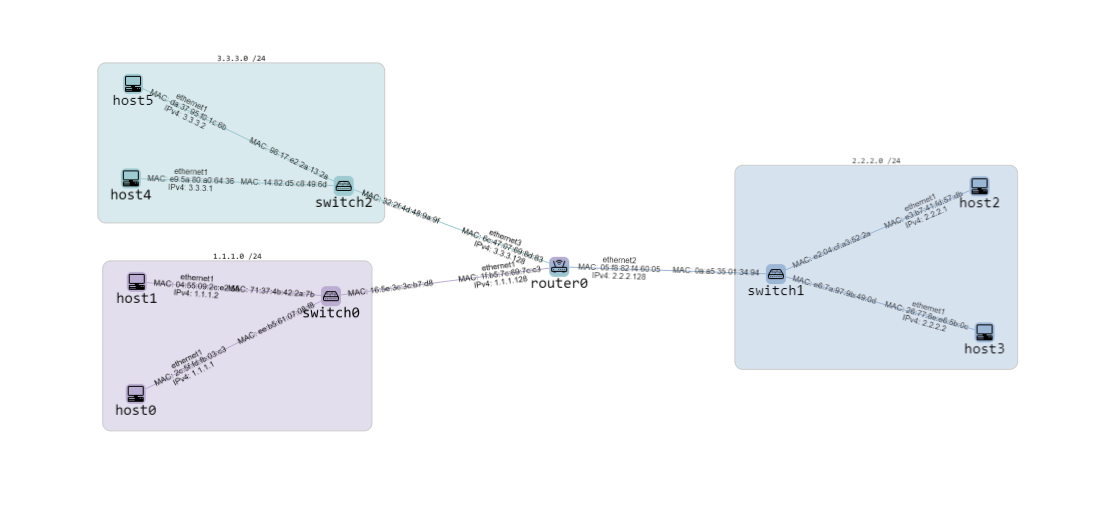
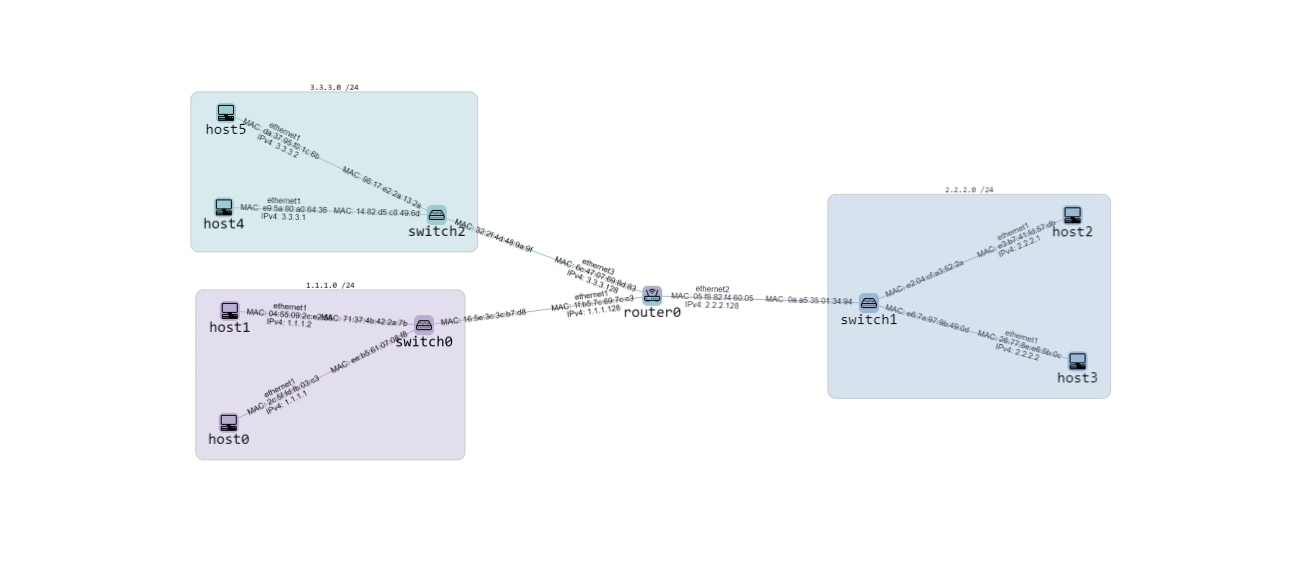
fixed preview images size

Changed region(s): [[0.0929, 0.303, 0.929, 0.8182], [0.0619, 0.0909, 0.4026, 0.4545]]

diff --git a/src/exporting/importExportController.ts b/src/exporting/importExportController.ts
@@ -425,11 +425,11 @@ export class ImportExportController {
         ["Example 2", new ExampleDescription(2, "resources/preview-examples/hub-simulation.png", "resources/examples/hub-simulation.json", "Ethernet with a hub and 3 hosts.")],
         ["Example 3", new ExampleDescription(3, "resources/preview-examples/bridge-simulation.png", "resources/examples/bridge-simulation.json", "Ethernet with a bridge and 2 hosts.")],
         ["Example 4", new ExampleDescription(4, "resources/preview-examples/switch-simulation.png", "resources/examples/switch-simulation.json", "Ethernet with a switch and 3 hosts.")],
-        ["Example 5", new ExampleDescription(5, "resources/preview-examples/accesspoint-simulation.png", "resources/examples/accesspoint-simulation.json", "Wireless network with an access point and 3 hosts.")],
+        ["Example 5", new ExampleDescription(5, "resources/preview-examples/accesspoint-simulation.png", "resources/examples/accesspoint-simulation.json", "Wifi network with 1 access point, 3 hosts.")],
         ["Example 6", new ExampleDescription(6, "resources/preview-examples/gateway-2ethernet.png", "resources/examples/gateway-2ethernet.json", "2 Ethernets with a gateway.")],
         ["Example 7", new ExampleDescription(7, "resources/preview-examples/gateway-2net-wireless-ethernet.png", "resources/examples/gateway-2net-wireless-ethernet.json", "An ethernet, a wireless network and a gateway.")],
         ["Example 8", new ExampleDescription(8, "resources/preview-examples/gateway-3ethernet.png", "resources/examples/gateway-3ethernet.json", "3 Ethernets and a gateway.")],
-        ["Example 9", new ExampleDescription(9, "resources/preview-examples/3gateways - next gateway routes.png", "resources/examples/3gateways - next gateway routes.json", "3 Ethernet, each with a corresponding gateway.")],
+        ["Example 9", new ExampleDescription(9, "resources/preview-examples/3gateways - next gateway routes.png", "resources/examples/3gateways - next gateway routes.json", "3 Ethernets, each with a corresponding gateway.")],
         ["Example 10", new ExampleDescription(10, "resources/preview-examples/4 routers-2 nets.png", "resources/examples/4 routers-2 nets.json", "2 Ethernets and 4 routers.")]
     ]); //id, example-info
 

diff --git a/index.html b/index.html
@@ -17,13 +17,13 @@
 
 <body>
   <computer-network screen="medium"></computer-network>
-  <form autocomplete="off"
+  <!--<form autocomplete="off"
     style="position: fixed; bottom: 0; right: 0; padding: 10px; background: rgba(255, 255, 255, 0.75)">
     <input checked type="checkbox"
       onchange="document.querySelector('computer-network').toggleAttribute('editable')">editable</input>
     <input checked type="checkbox"
       onchange="document.querySelector('computer-network').toggleAttribute('automate')">automate</input>
-  </form>
+  </form>-->
 </body>
 
 </html>

diff --git a/src/components/logicalNodes/Net.ts b/src/components/logicalNodes/Net.ts
@@ -71,7 +71,6 @@ export class Net extends LogicalNode {
     }
 
 
-
     /**
      * Filter for valid bitmask and netmask
      * @param color 
